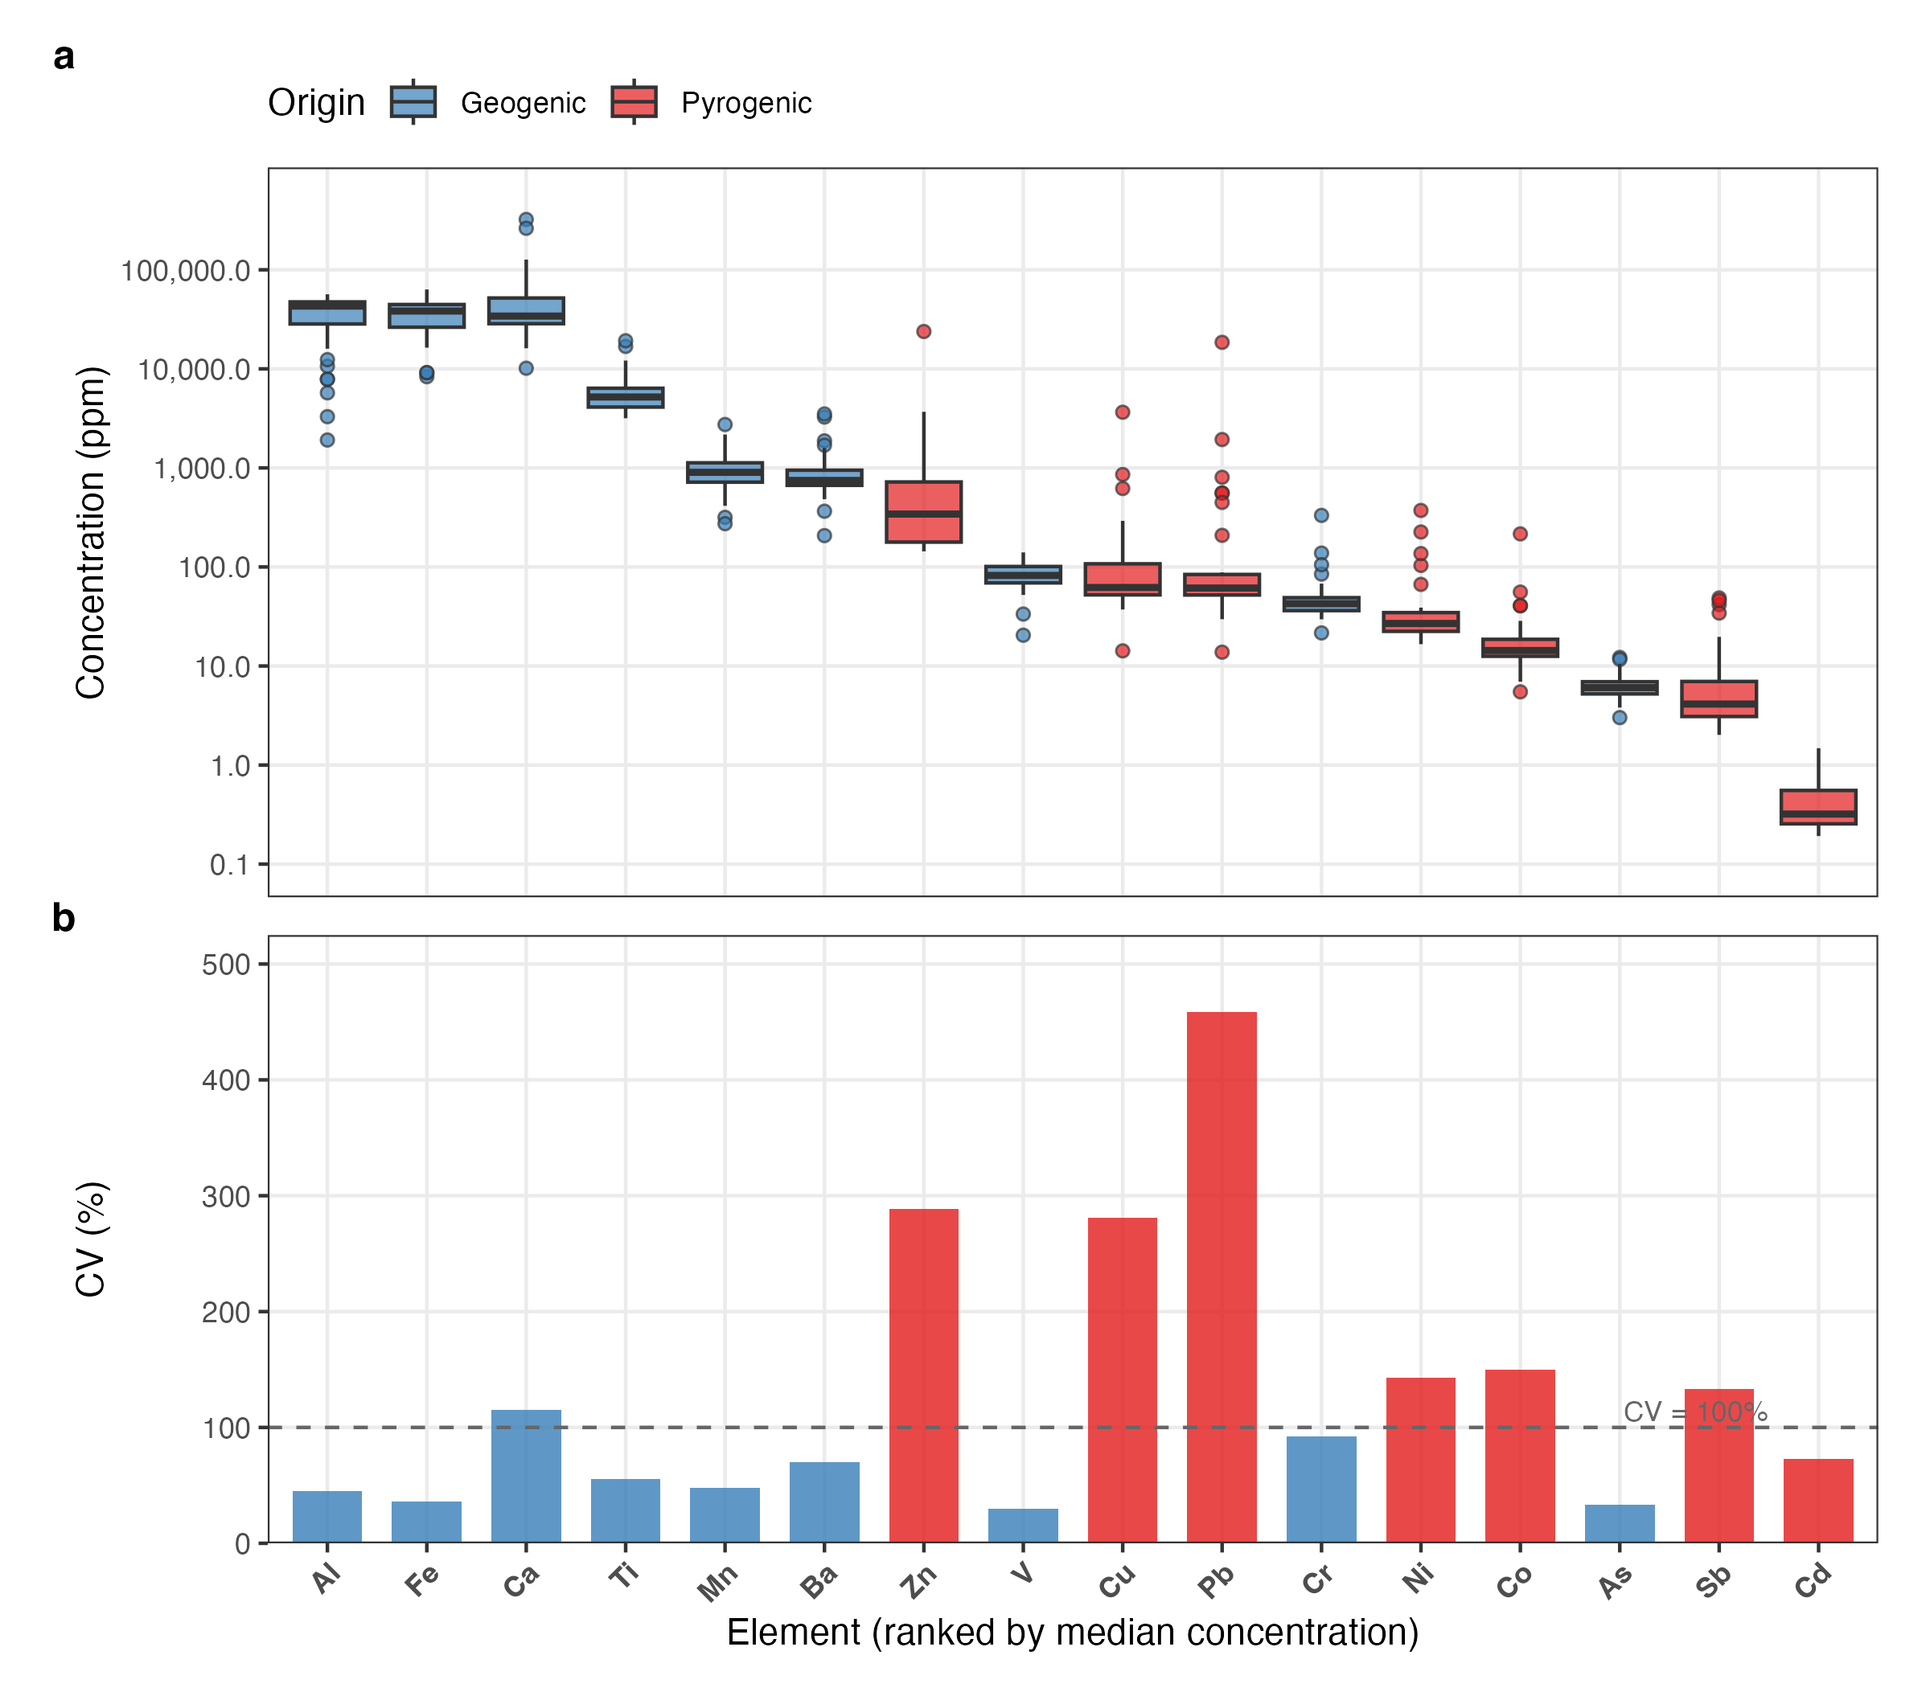
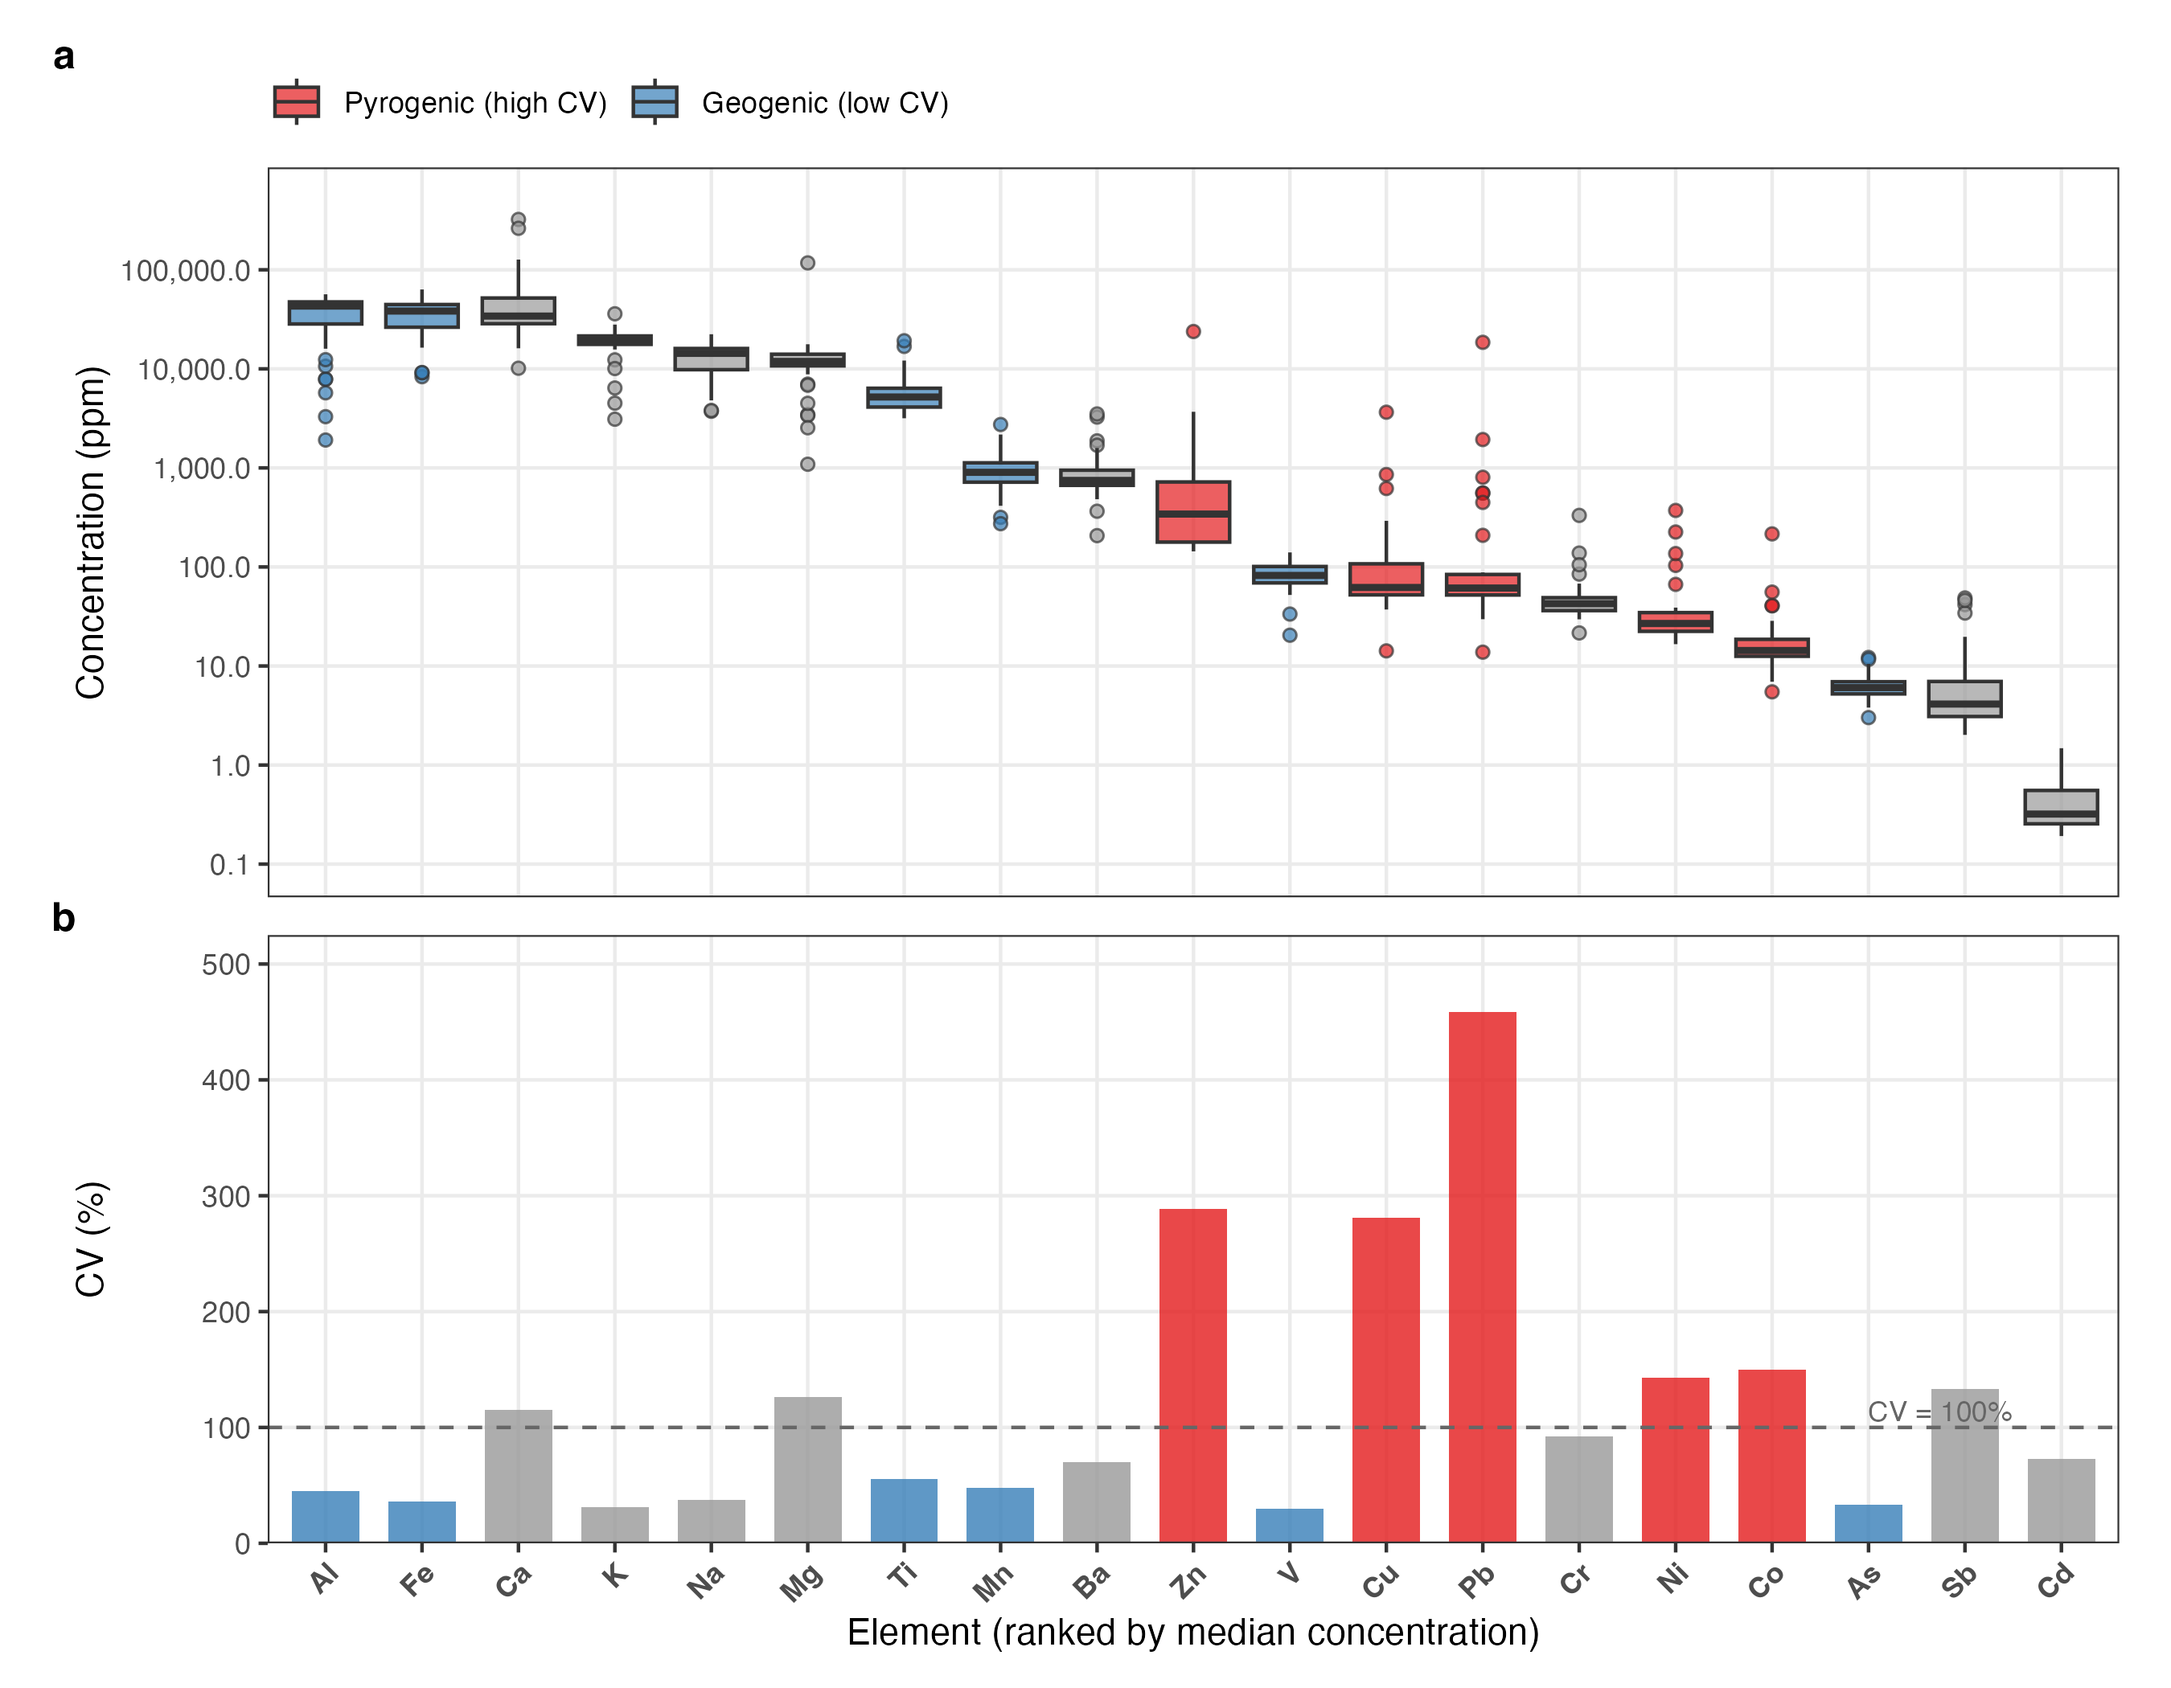
Add K, Na, Mg to Figure 3; color only clear narrative elements
- Include all major elements: Ca, Fe, Al, K, Na, Mg, Ti, Mn
- Color only elements that clearly support narrative:
  - Red (pyrogenic, CV>140%): Pb, Zn, Cu, Co, Ni
  - Blue (geogenic, CV<60%): Al, Fe, Ti, V, Mn, As
  - Gray (other): Ca, K, Na, Mg, Ba, Cr, Sb, Cd
- Legend shows only pyrogenic/geogenic categories
- Update caption to list colored elements explicitly

🤖 Generated with [Claude Code](https://claude.com/claude-code)

diff --git a/Eaton-Fire-Ash/Manuscript/ACS_EST_manuscript.tex b/Eaton-Fire-Ash/Manuscript/ACS_EST_manuscript.tex
@@ -162,7 +162,7 @@ ICP-MS analysis quantified more than 50 elements in the 38 analyzed ash samples 
 \begin{figure}[htbp]
 \centering
 \includegraphics[width=\columnwidth]{Fig-3-icpms.png}
-\caption{Metal concentrations and spatial variability in 38 ash samples measured by ICP-MS. Elements are ranked by median concentration (highest to lowest). \textbf{(a)} Boxplots of element concentrations (log scale). \textbf{(b)} Coefficient of variation (CV) for each element. Blue = geogenic elements (derived from regional geological substrate); red = pyrogenic elements (derived from combustion of built-environment materials). Pyrogenic metals (Pb, Zn, Cu) show extreme spatial heterogeneity (CV $>$ 280\%), while geogenic elements (Al, Fe, Ti) show relatively uniform concentrations (CV $<$ 60\%).}
+\caption{Element concentrations and spatial variability in 38 ash samples measured by ICP-MS. Elements are ranked by median concentration (highest to lowest). \textbf{(a)} Boxplots of element concentrations (log scale). \textbf{(b)} Coefficient of variation (CV) for each element. Blue = geogenic elements derived from regional geological substrate (Al, Fe, Ti, V, Mn, As; CV $<$ 60\%); red = pyrogenic elements derived from combustion of built-environment materials (Pb, Zn, Cu, Co, Ni; CV $>$ 140\%); gray = other elements. Dashed line indicates CV = 100\%.}
 \label{fig:icpms_summary}
 \end{figure}
 
